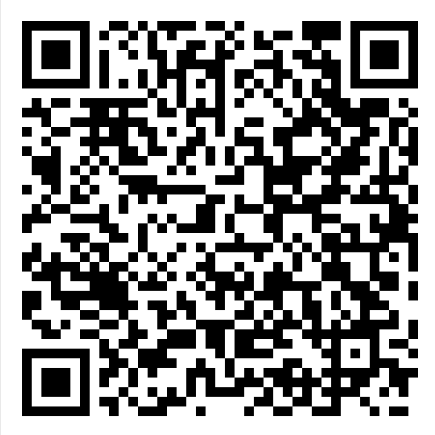
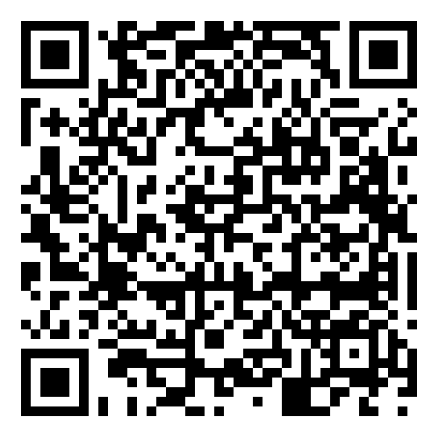
up

diff --git a/app/layout.tsx b/app/layout.tsx
@@ -25,19 +25,19 @@ const greatVibes = Great_Vibes({
 })
 
 export const metadata: Metadata = {
-  metadataBase: new URL("https://muhammad_aya.digitivaa.com"),
+  metadataBase: new URL("https://muhammad-aya.digitivaa.com"),
   title: "Muhammad & Aya - Wedding Celebration",
   description: "Join us in celebrating Muhammad & Aya's wedding",
   generator: "Digitiva",
   openGraph: {
-    url: "https://muhammad_aya.digitivaa.com/",
+    url: "https://muhammad-aya.digitivaa.com/",
     type: "website",
     siteName: "Muhammad & Aya Wedding",
     title: "Muhammad & Aya - Wedding Celebration",
     description: "Join us in celebrating Muhammad & Aya's wedding",
     images: [
       {
-        url: "https://muhammad_aya.digitivaa.com/invitation-design.png?t=20241220v2",
+        url: "https://muhammad-aya.digitivaa.com/invitation-design.png",
         width: 768,
         height: 1365,
         alt: "Muhammad & Aya Wedding Invitation",
@@ -49,7 +49,7 @@ export const metadata: Metadata = {
     card: "summary_large_image",
     title: "Muhammad & Aya - Wedding Celebration",
     description: "Join us in celebrating Muhammad & Aya's wedding",
-    images: ["https://muhammad_aya.digitivaa.com/invitation-design.png?t=20241220"],
+    images: ["https://muhammad-aya.digitivaa.com/invitation-design.png"],
   },
   icons: {
     icon: "/invitation-design.png",
@@ -73,12 +73,12 @@ export default function RootLayout({
           - Current: 768x1365px (portrait) - may work but not optimal
           - Format: PNG or JPEG (not WebP)
         */}
-        <meta property="og:url" content="https://muhammad_aya.digitivaa.com/" />
+        <meta property="og:url" content="https://muhammad-aya.digitivaa.com/" />
         <meta property="og:type" content="website" />
         <meta property="og:title" content="Muhammad & Aya - Wedding Celebration" />
         <meta property="og:description" content="Join us in celebrating Muhammad & Aya's wedding" />
-        <meta property="og:image" content="https://muhammad_aya.digitivaa.com/invitation-design.png?t=20241220v2" />
-        <meta property="og:image:secure_url" content="https://muhammad_aya.digitivaa.com/invitation-design.png?t=20241220v2" />
+        <meta property="og:image" content="https://muhammad-aya.digitivaa.com/invitation-design.png" />
+        <meta property="og:image:secure_url" content="https://muhammad-aya.digitivaa.com/invitation-design.png" />
         <meta property="og:image:type" content="image/png" />
         <meta property="og:image:width" content="768" />
         <meta property="og:image:height" content="1365" />
@@ -90,7 +90,7 @@ export default function RootLayout({
         <meta name="twitter:card" content="summary_large_image" />
         <meta name="twitter:title" content="Muhammad & Aya - Wedding Celebration" />
         <meta name="twitter:description" content="Join us in celebrating Muhammad & Aya's wedding" />
-        <meta name="twitter:image" content="https://muhammad_aya.digitivaa.com/invitation-design.png?t=20241220v2" />
+        <meta name="twitter:image" content="https://muhammad-aya.digitivaa.com/invitation-design.png" />
 
         {/* Preload PNG with high priority to eliminate lag on Netlify */}
         <link

diff --git a/components/photo-upload-section.tsx b/components/photo-upload-section.tsx
@@ -77,7 +77,7 @@ export default function PhotoUploadSection() {
   const t = useTranslation()
   const { language } = useLanguage()
 
-  const driveLink = "https://drive.google.com/drive/folders/1t6IbaEjAke_8VEipWQdgckbPgWvY-34l"
+  const driveLink = "https://drive.google.com/drive/folders/1L-vi5cV2w23C7TcYOad1NHlPlppSsv0y"
 
   const handleUploadClick = () => {
     window.open(driveLink, "_blank")
